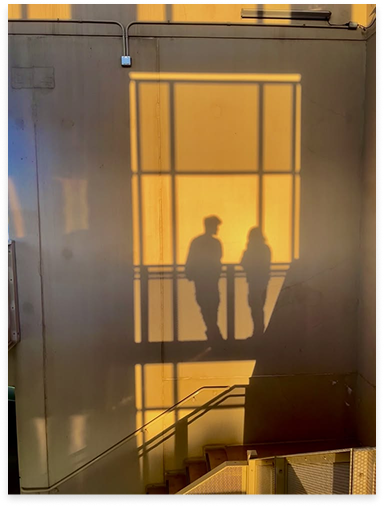
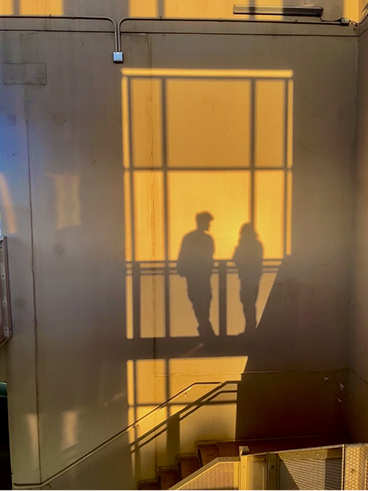
dilly dally fixed for once

Changed region(s): [[0.0, 0.0, 1.0, 1.0], [0.4185, 0.2749, 0.4484, 0.3055], [0.0598, 0.1833, 0.0897, 0.2138]]

diff --git a/landing.html b/landing.html
@@ -722,7 +722,7 @@
 
 /* Left bubble */
 .bubble-left {
-  left: -168px;
+  left: -8px;
   top: 155px;
   border-bottom-left-radius: 4px;
   transition-delay: 0.15s;
@@ -738,7 +738,7 @@
 
 /* Bottom-right bubble */
 .bubble-right-bottom {
-  left: 370px;
+  left: 338px;
   top: 355px;
   border-bottom-right-radius: 4px;
   transition-delay: 0.55s;
@@ -862,7 +862,7 @@
       <span style="color: #E81E64; font-size: 48px; font-family: Averia Serif Libre; font-weight: 400; line-height: 56px; word-wrap: break-word">No more <br/>
       </span>
       <span style="color: #E81E64; font-size: 56px; font-family: Averia Serif Libre; font-style: italic; font-weight: 700; line-height: 48px; word-wrap: break-word">dilly dallying
-        
+
       </span></div>
     <div style="align-self: stretch; position: relative; flex-direction: column; justify-content: flex-start; align-items: center; display: flex; z-index: 2;">
       <div class="dilly-image-frame">
